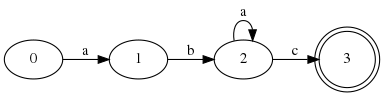
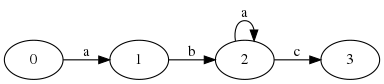
minor fixes

diff --git a/dfa.py b/dfa.py
@@ -163,7 +163,7 @@ class operations:
             generated = ''.join(word)
             array_of_language.append(generated)
         return array_of_language
-    #turn list values into a single variable
+    #turn list values into a string
     def concatenate_list_data(self,list):
         result= ''
         for element in list:
@@ -179,7 +179,7 @@ class operations:
                     return 0
             else:
                 break
-    #todo
+    #todo: convert DFA to regular expression
     def DFA_to_REGEX(self,transition):
         concat = ""
         for word in sorted(transition.iterkeys()):
@@ -209,6 +209,7 @@ class operations:
         os.system('cls||clear')
         print(' ----------------------------------------------')
         print('|     DETERMINISTIC FINITE AUTOMATA (DFA)      |')
+        print('|       (generator, checker, converter)        |')
         print('|                                              |')
         print('| DFA DATA: data.txt                           |')
         print(' ----------------------------------------------')
@@ -251,8 +252,7 @@ class operations:
             initial = i[0]
             value = i[1]
             to_append = to_append + '%s -> %s [label="%s"];'%(initial,target,value)
-        to_append = to_append + 'rankdir=LR{ %s [shape=doublecircle]'%target
-        to_append = to_append + '}'
+        to_append = to_append + 'rankdir=LR'
         to_append = to_append + '}'
         A=pgv.AGraph(to_append)
         A.layout()
@@ -275,18 +275,18 @@ class operations:
             elif word == '*':
                 tokenize_all = tokenize_all + "(Epsilon,%s) "%word
             elif word == '(' or word == ')':
-                tokenize_all = tokenize_all + "(parenthesis,%s) "%word
+                tokenize_all = tokenize_all + "(parenthesis,'%s') "%word
             else:
                 self.error_msg("Error in parsing: illegal character: %s "%word)
         print(tokenize_all)
         stop = raw_input()
     # print DFA diagram from language
-    def print_DFA_diagram_language(self,prio,less_prio):
+    def print_DFA_diagram_language(self,prio,less_prio,title):
         G=pgv.AGraph()
         G=pgv.AGraph(strict=False,directed=True)
         initial = 0
         target = 1
-        to_append = 'digraph G {size="4,4"; '
+        to_append = 'digraph G {size="4,4"; label="%s";'%title
         #print the dfa of priority expression
         prio = prio.split('(')
         for expression in prio:
@@ -299,6 +299,7 @@ class operations:
                         arr[i] = map(str,arr[i])
                     i = 0
                     indi = 0
+                    start_f = ""
                     while i < len(arr):
                         j = 0
                         start = initial
@@ -308,12 +309,16 @@ class operations:
                                 j+=2
                             elif(self.greedy_scanner(arr[i],j) == 1 and arr[i][j]== ')'):
                                 to_append = to_append + '%s -> %s;'%(start,target)
-                                to_append = to_append + '%s -> %s;'%(start-1,target)
+                                to_append = to_append + '%s -> %s;'%(start_f,target)
                                 to_append = to_append + '%s -> %s;'%(target,initial)
+                                to_append = to_append + '%s -> %s;'%(initial,target)
                                 j+=2
                             elif( arr[i][j] == ')'):
+                                to_append = to_append + '%s -> %s;'%(start,target)
+                                to_append = to_append + '%s -> %s;'%(start_f,target)
+                                to_append = to_append + '%s -> %s;'%(target,initial)
                                 j+=1
-                                pass
+
                             else:
                                 to_append = to_append + '%s -> %s [label="%s"];'%(start,target,arr[i][j])
                                 start = start + 1
@@ -321,6 +326,8 @@ class operations:
                                 j+=1
                             if(indi > 0):
                                 start = target - 1
+                        if i == 0:
+                            start_f = start
                         start = initial
                         indi = 1
                         i+=1
@@ -337,6 +344,7 @@ class operations:
                         else:
                             if(arr[i] == ')' and arr[i+1] == '*'):
                                 to_append = to_append + '%s -> %s;'%(initial,start_in)
+                                to_append = to_append + '%s -> %s;'%(start_in,initial)
                                 i+=2
                             else:
                                 to_append = to_append + '%s -> %s [label="%s"];'%(initial,target,arr[i])
@@ -411,8 +419,7 @@ class operations:
         A.draw('dfa-language.png')
         a = Image.open('dfa-language.png')
         a.show()
-
-
+    #process regular expression, determine priorities
     def process_regex(self,arr):
         self.tokenize(arr)
         arr_map = map(str,arr)
@@ -444,7 +451,7 @@ class operations:
                 i+=1
         priority = self.concatenate_list_data(priority)
         less_prio = self.concatenate_list_data(less_prio)
-        self.print_DFA_diagram_language(priority,less_prio)
+        self.print_DFA_diagram_language(priority,less_prio,arr)
 
     #the main
     def main(self):
@@ -484,7 +491,7 @@ class operations:
                     print('Start state: %s'%start_state)
                     print('Accept States: %s '%accept_states)
                     print("Converted DFA to Regular Expression: %s \n\n"%self.DFA_to_REGEX(transition))
-                    input_user_choice = raw_input("Enter 1 to generate, 2 for manual input: ")
+                    input_user_choice = raw_input("1 to generate random language\n2 for manual input \n3 go back\n\n: ")
                     if(input_user_choice == '1'):
                         # get length of language to be generated from user
                         input_user = raw_input("Enter Lenght of language to be generated: ");
@@ -527,4 +534,4 @@ try:
     operation.main()
 except:
     # if error encountered display error message
-    print("\n\nThere was an error in running the program.")
+    print("There was an error in running the program.\n")
